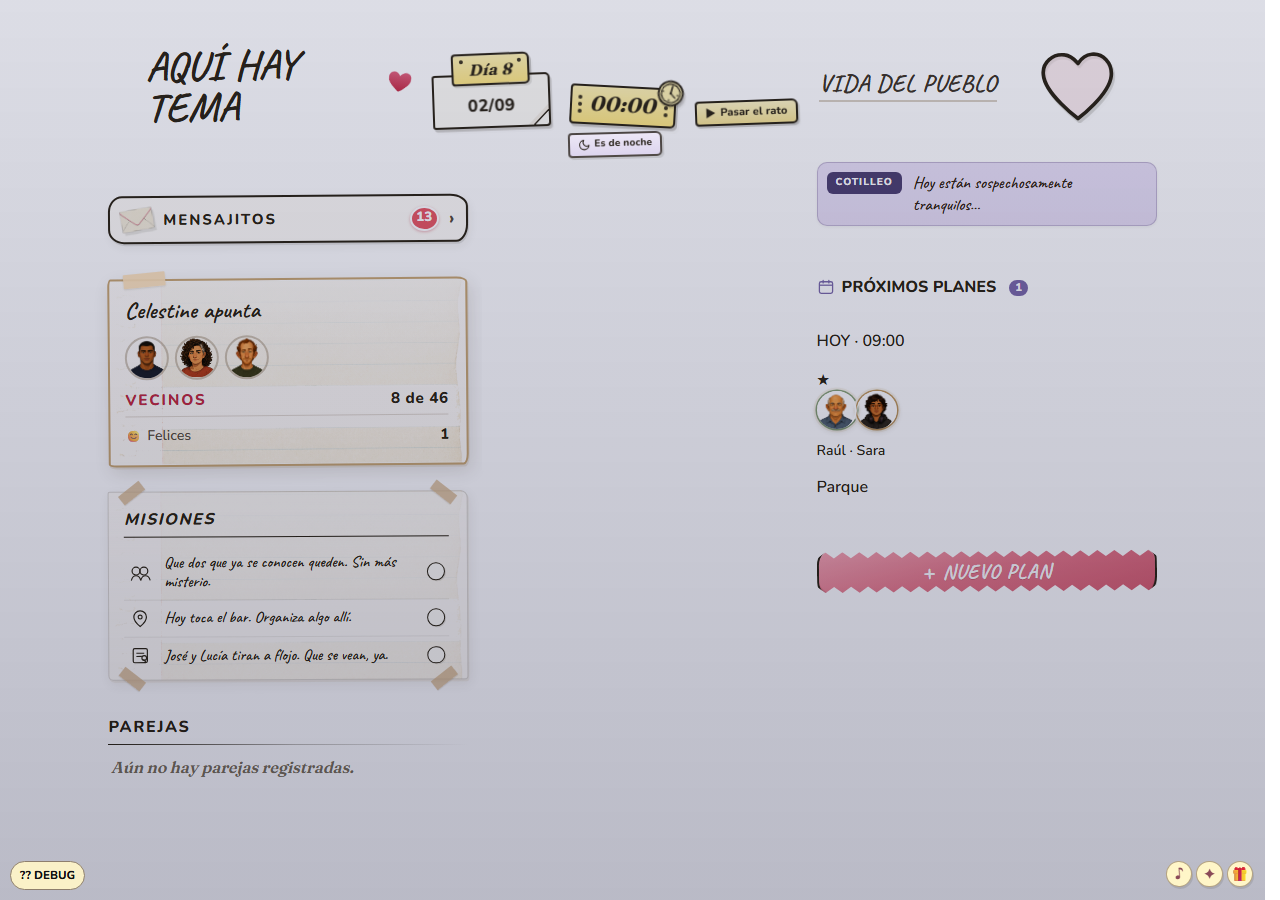
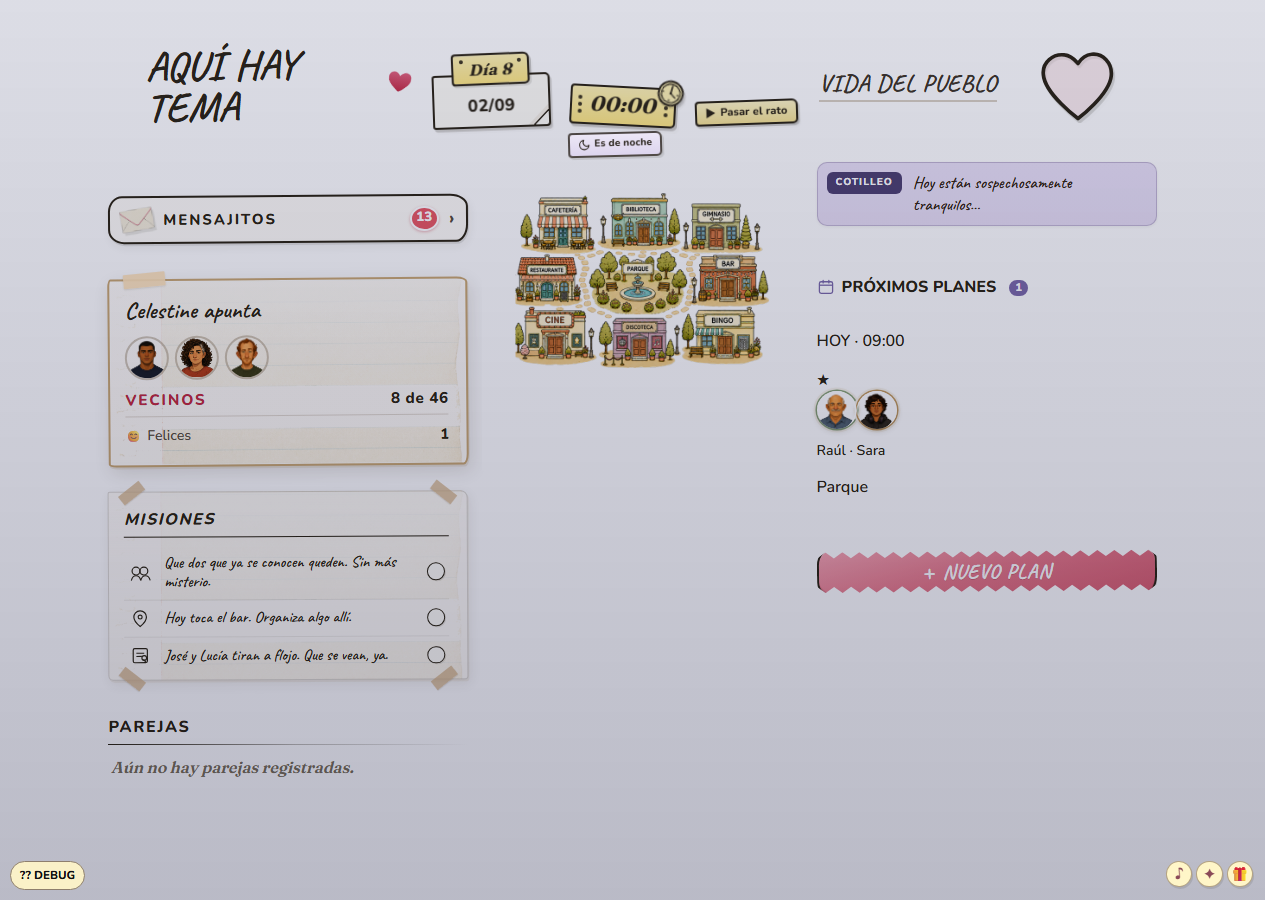
fix(inicio-desktop): mapa visible en host compartido (play-root colapsado)
Las reglas .inicio-desktop .game-map-wrap no aplicaban al mapa sibling;
restaura altura de play-stage/play-root en .inicio-stage > .inicio-map-host.

Changed region(s): [[0.4062, 0.2178, 0.625, 0.4356]]

diff --git a/dev/_append_inicio_desktop_layout_fix.js b/dev/_append_inicio_desktop_layout_fix.js
@@ -8,7 +8,7 @@ let css = fs.readFileSync(cssPath, 'utf8');
 css = css.replace(/\n\/\* INICIO-DESKTOP-LAYOUT-FIX[\s\S]*$/, '');
 
 const block = `
-/* INICIO-DESKTOP-LAYOUT-FIX — mapa centro + icono prox planes (display:contents) */
+/* INICIO-DESKTOP-LAYOUT-FIX — grid stage + mapa visible en host compartido */
 @media (min-width: 769px) {
   .inicio-stage {
     display: grid !important;
@@ -41,7 +41,57 @@ const block = `
     justify-self: stretch !important;
     width: 100% !important;
     min-width: 0 !important;
+    min-height: 320px !important;
     z-index: 1 !important;
+    display: flex !important;
+    flex-direction: column !important;
+    overflow: visible !important;
+  }
+
+  /* Host compartido: reglas legacy .inicio-desktop .game-map-wrap no aplican (mapa fuera de .inicio-desktop) */
+  .play-v3 .inicio-stage > .inicio-map-host .play-stage {
+    flex: 1 1 auto !important;
+    width: 100% !important;
+    min-height: 280px !important;
+    height: 100% !important;
+    overflow: hidden !important;
+  }
+
+  .play-v3 .inicio-stage > .inicio-map-host .play-root.pc {
+    min-height: 260px !important;
+    height: 100% !important;
+    overflow: hidden !important;
+  }
+
+  .play-v3 .inicio-stage > .inicio-map-host .board-scroll {
+    position: absolute !important;
+    inset: 0 !important;
+    width: 100% !important;
+    height: 100% !important;
+    min-height: 260px !important;
+    overflow: hidden !important;
+    display: flex !important;
+    align-items: center !important;
+    justify-content: center !important;
+  }
+
+  .play-v3 .inicio-stage > .inicio-map-host .board-fit,
+  .play-v3 .inicio-stage > .inicio-map-host .play-root.pc .board-fit {
+    position: relative !important;
+    top: auto !important;
+    width: 91% !important;
+    max-height: min(76vh, 660px) !important;
+    height: auto !important;
+    aspect-ratio: 618 / 404 !important;
+    margin: 0 auto !important;
+  }
+
+  .play-v3 .inicio-stage > .inicio-map-host .mapa-canonico,
+  .play-v3 .inicio-stage > .inicio-map-host .mapa-zonas-layer {
+    position: absolute !important;
+    inset: 0 !important;
+    width: 100% !important;
+    height: 100% !important;
   }
 
   .inicio-stage .inicio-desktop-right {
@@ -49,7 +99,6 @@ const block = `
     grid-row: 2 !important;
   }
 
-  /* .pp-mov-ico (SVG calendario) heredaba el ancho de columna (~320px) */
   .inicio-desktop-right .plan-seccion-cab {
     display: flex !important;
     align-items: center !important;
@@ -74,4 +123,4 @@ const block = `
 
 css = css.trimEnd() + block;
 fs.writeFileSync(cssPath, css);
-console.log('OK replaced INICIO-DESKTOP-LAYOUT-FIX');
+console.log('OK updated INICIO-DESKTOP-LAYOUT-FIX with map-host visibility');

diff --git a/assets/css/design-system/screens/inicio-desktop.css b/assets/css/design-system/screens/inicio-desktop.css
@@ -784,7 +784,7 @@
     grid-template-columns: minmax(300px, 360px) minmax(320px, 1fr) minmax(260px, 340px) !important;
   }
 }
-/* INICIO-DESKTOP-LAYOUT-FIX — mapa centro + icono prox planes (display:contents) */
+/* INICIO-DESKTOP-LAYOUT-FIX — grid stage + mapa visible en host compartido */
 @media (min-width: 769px) {
   .inicio-stage {
     display: grid !important;
@@ -817,7 +817,57 @@
     justify-self: stretch !important;
     width: 100% !important;
     min-width: 0 !important;
+    min-height: 320px !important;
     z-index: 1 !important;
+    display: flex !important;
+    flex-direction: column !important;
+    overflow: visible !important;
+  }
+
+  /* Host compartido: reglas legacy .inicio-desktop .game-map-wrap no aplican (mapa fuera de .inicio-desktop) */
+  .play-v3 .inicio-stage > .inicio-map-host .play-stage {
+    flex: 1 1 auto !important;
+    width: 100% !important;
+    min-height: 280px !important;
+    height: 100% !important;
+    overflow: hidden !important;
+  }
+
+  .play-v3 .inicio-stage > .inicio-map-host .play-root.pc {
+    min-height: 260px !important;
+    height: 100% !important;
+    overflow: hidden !important;
+  }
+
+  .play-v3 .inicio-stage > .inicio-map-host .board-scroll {
+    position: absolute !important;
+    inset: 0 !important;
+    width: 100% !important;
+    height: 100% !important;
+    min-height: 260px !important;
+    overflow: hidden !important;
+    display: flex !important;
+    align-items: center !important;
+    justify-content: center !important;
+  }
+
+  .play-v3 .inicio-stage > .inicio-map-host .board-fit,
+  .play-v3 .inicio-stage > .inicio-map-host .play-root.pc .board-fit {
+    position: relative !important;
+    top: auto !important;
+    width: 91% !important;
+    max-height: min(76vh, 660px) !important;
+    height: auto !important;
+    aspect-ratio: 618 / 404 !important;
+    margin: 0 auto !important;
+  }
+
+  .play-v3 .inicio-stage > .inicio-map-host .mapa-canonico,
+  .play-v3 .inicio-stage > .inicio-map-host .mapa-zonas-layer {
+    position: absolute !important;
+    inset: 0 !important;
+    width: 100% !important;
+    height: 100% !important;
   }
 
   .inicio-stage .inicio-desktop-right {
@@ -825,7 +875,6 @@
     grid-row: 2 !important;
   }
 
-  /* .pp-mov-ico (SVG calendario) heredaba el ancho de columna (~320px) */
   .inicio-desktop-right .plan-seccion-cab {
     display: flex !important;
     align-items: center !important;
